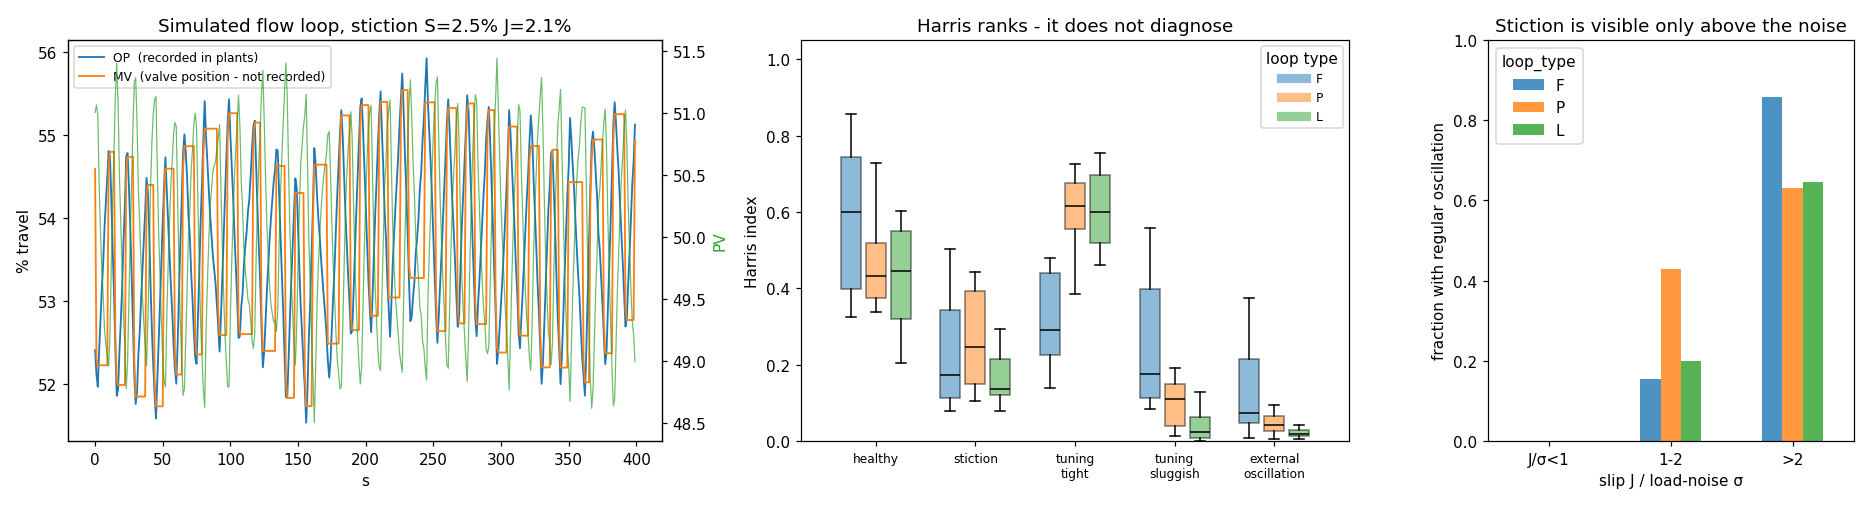
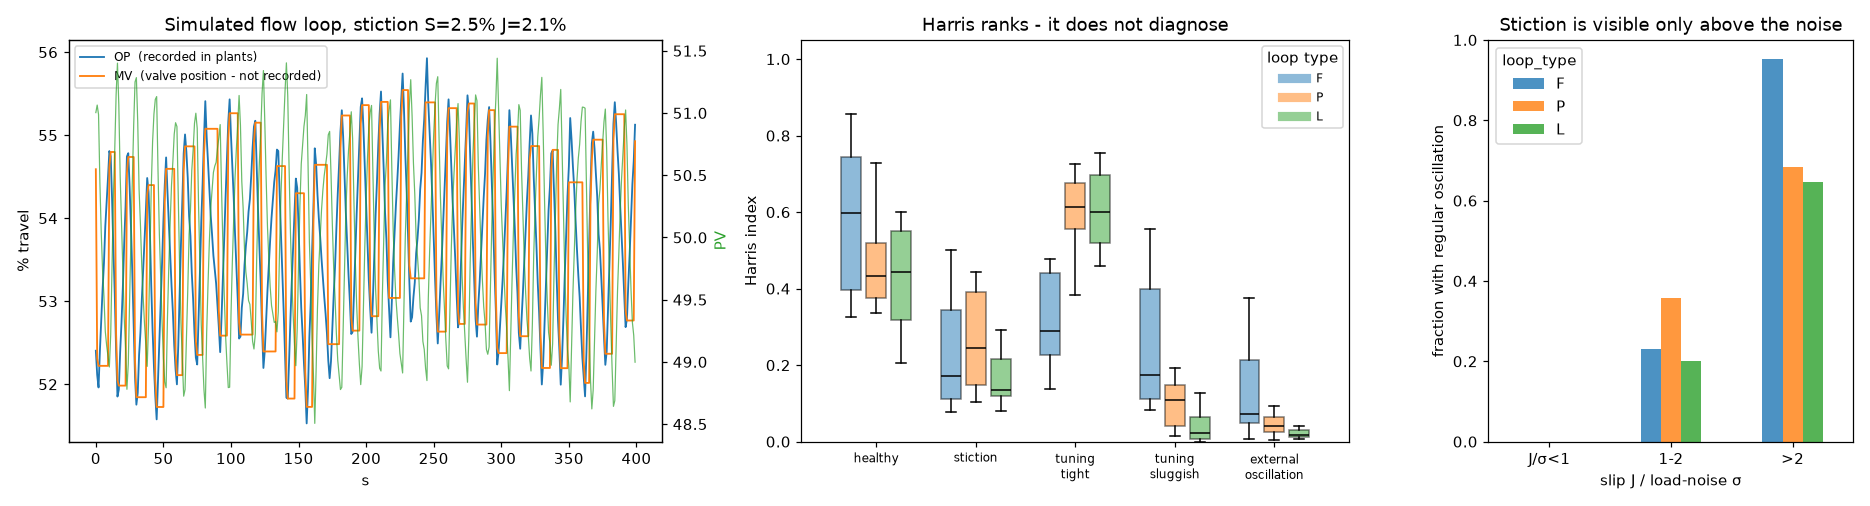
p02: numbers and figure from reference environment

diff --git a/projects/p02_control_loops/VALIDATION.md b/projects/p02_control_loops/VALIDATION.md
@@ -306,6 +306,9 @@ pass oscillation detection will skip at least one labelled stiction case.
 
 Code: `chemai/data/loop_sim.py` · `chemai/features/loop_performance.py` · `chemai/data/sacac.py`.
 Numbers below: `projects/p02_control_loops/week1.py` → `results.json`, seeded, 120 plants × 2 seeds.
+**Reference environment:** Python 3.14, NumPy 2.5.3, aarch64 (WSL). Other environments reproduce the
+conclusions, but borderline runs near the oscillation threshold can flip — a few fractions differ by
+up to ~0.1. Published numbers come from this environment only.
 
 ### 11.1 Design decisions the simulator forced
 
@@ -323,7 +326,7 @@ Fraction of runs with a regular oscillation (regularity > 1), and median Harris 
 | Condition | Oscillating F · P · L | Harris F | Harris P | Harris L |
 |---|---|---|---|---|
 | healthy | 0 · 0 · 0 | 0.60 [0.36–0.83] | 0.43 [0.36–0.67] | 0.45 [0.25–0.58] |
-| stiction | 0.56 · 0.44 · 0.56 | 0.17 [0.09–0.42] | 0.25 [0.11–0.41] | 0.14 [0.08–0.25] |
+| stiction | 0.56 · 0.50 · 0.56 | 0.17 [0.09–0.42] | 0.25 [0.11–0.41] | 0.14 [0.08–0.25] |
 | tuning_tight | 1.00 · 0.69 · 0.69 | 0.29 [0.18–0.45] | **0.62** [0.47–0.70] | **0.60** [0.50–0.75] |
 | tuning_sluggish | 0 · 0.19 · 0.13 | 0.18 [0.09–0.54] | 0.11 [0.02–0.18] | 0.02 [0.00–0.19] |
 | external_oscillation | 1.00 · 0.88 · 1.00 | 0.07 [0.01–0.30] | 0.04 [0.01–0.09] | 0.02 [0.01–0.04] |
@@ -336,14 +339,14 @@ Fraction of runs with a regular oscillation (regularity > 1), and median Harris 
 
 ### 11.3 ⚠ A sticky valve does not always oscillate
 
-Only 44–56% of simulated stiction runs produce a regular oscillation. What decides it is the slip
+Only 50–56% of simulated stiction runs produce a regular oscillation. What decides it is the slip
 jump `J` against the load-noise standard deviation:
 
 | J / σ_load | F | P | L |
 |---|---|---|---|
 | < 1 | 0.00 (n=6) | 0.00 (n=7) | 0.00 (n=1) |
-| 1–2 | 0.15 (n=13) | 0.43 (n=14) | 0.20 (n=5) |
-| > 2 | 0.86 (n=21) | 0.63 (n=19) | 0.65 (n=34) |
+| 1–2 | 0.23 (n=13) | 0.36 (n=14) | 0.20 (n=5) |
+| > 2 | 0.95 (n=21) | 0.68 (n=19) | 0.65 (n=34) |
 
 Below the noise, the valve is dithered by the disturbance and the limit cycle never forms. **The
 fault exists but is not visible in OP or PV — only in MV, which plants do not record.** This is the
